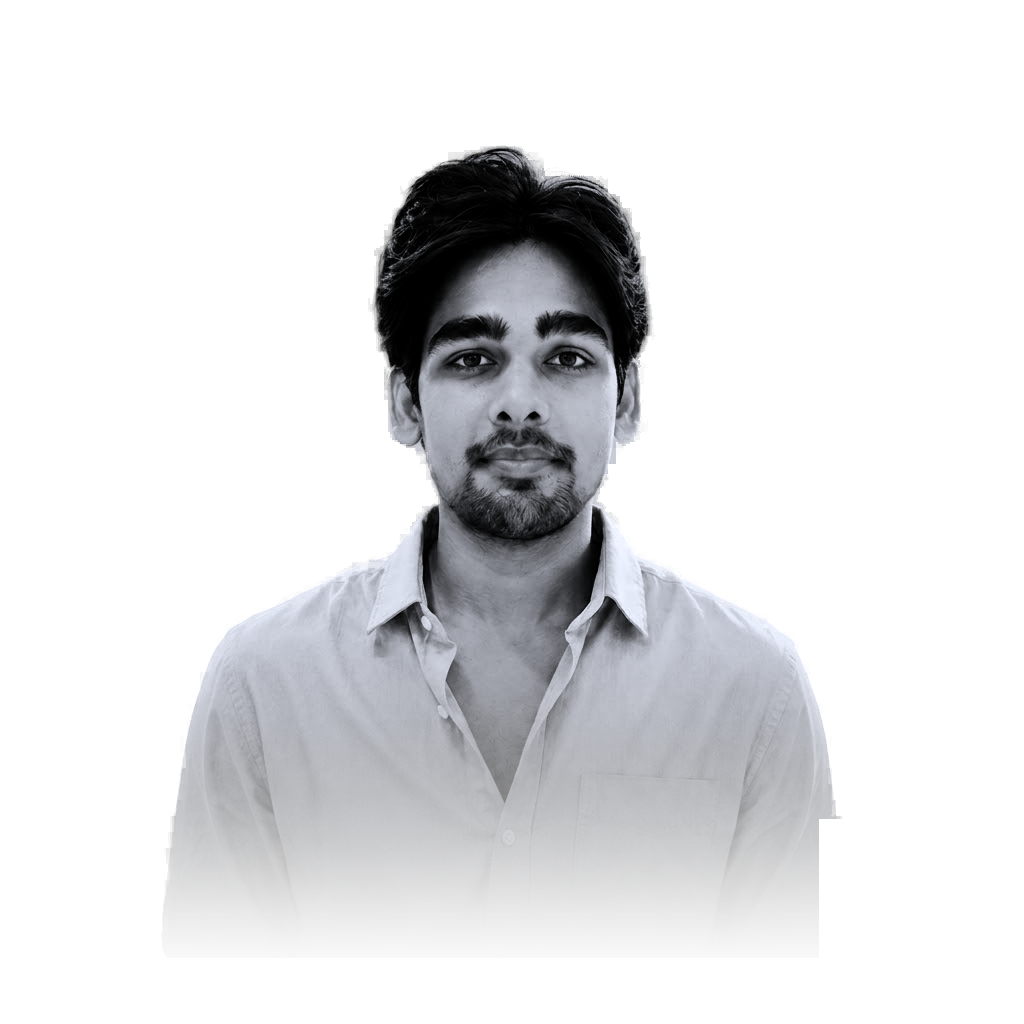
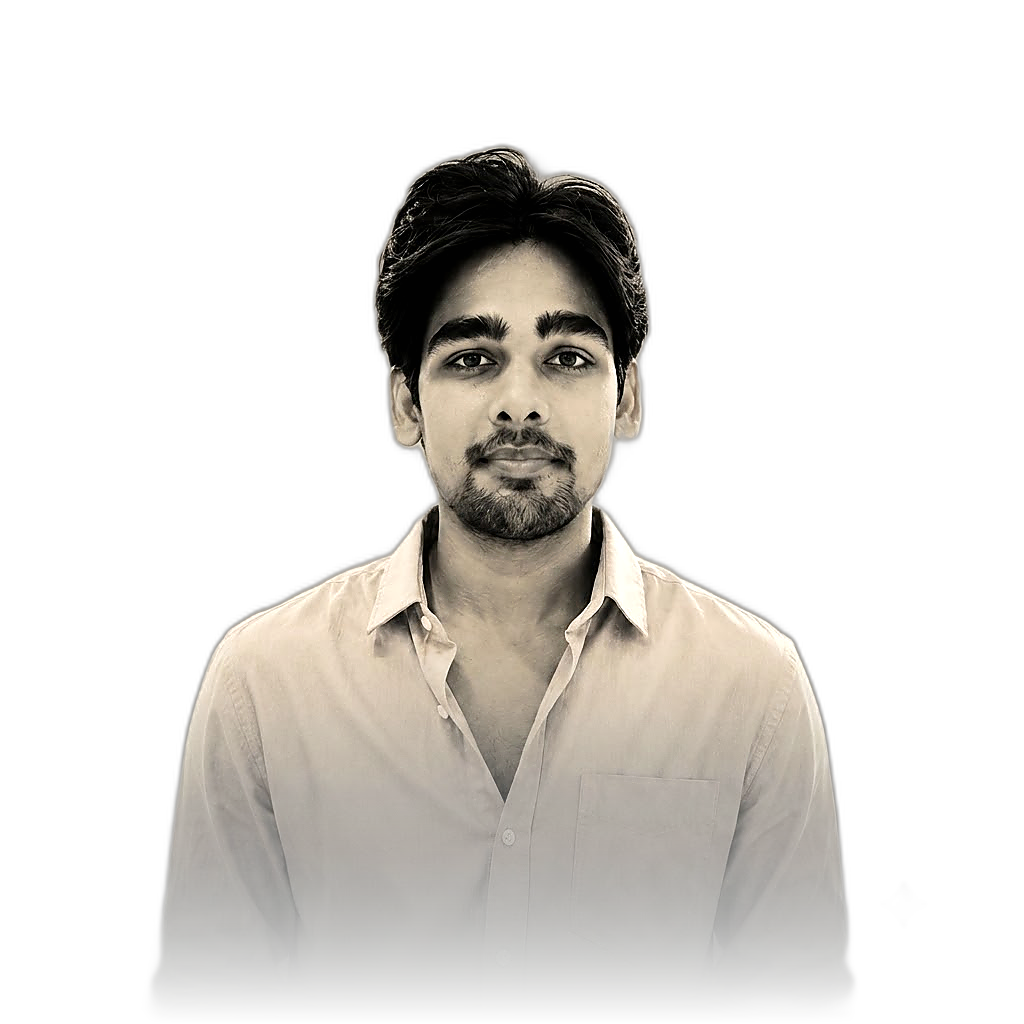
feat: implement premium hero section with global CSS styling and assets

diff --git a/src/components/sections/hero.tsx b/src/components/sections/hero.tsx
@@ -1,6 +1,7 @@
 'use client';
 
 import * as React from 'react';
+import Image from 'next/image';
 import { ArrowRight, FileText, Mail, ChevronDown } from 'lucide-react';
 import { motion } from 'framer-motion';
 import { siteConfig } from '@/config/site';
@@ -9,7 +10,7 @@ import { useReducedMotion } from '@/hooks/use-reduced-motion';
 
 /**
  * Premium Hero Section Component.
- * Implements desktop split-screen layout (text left, interactive SVG right).
+ * Implements desktop split-screen layout (text left, portrait photo right).
  * Built with strict design tokens, Framer Motion sequence animations,
  * and accessibility keyboard navigation aids.
  */
@@ -18,107 +19,6 @@ export function Hero() {
 
   // Sequence delays
   const delayStep = isReducedMotion ? 0 : 0.1;
-
-  // Render responsive interactive data nodes representing neural network configurations
-  const renderSVGNodes = () => {
-    return (
-      <svg
-        className="w-full h-full max-w-[480px] max-h-[480px] mx-auto text-border-custom"
-        viewBox="0 0 400 400"
-        fill="none"
-        xmlns="http://www.w3.org/2000/svg"
-        aria-hidden="true"
-      >
-        {/* Bounding target brackets */}
-        <path d="M 20 50 L 20 20 L 50 20" stroke="currentColor" strokeWidth="1.5" />
-        <path d="M 380 50 L 380 20 L 350 20" stroke="currentColor" strokeWidth="1.5" />
-        <path d="M 20 350 L 20 380 L 50 380" stroke="currentColor" strokeWidth="1.5" />
-        <path d="M 380 350 L 380 380 L 350 380" stroke="currentColor" strokeWidth="1.5" />
-
-        {/* Technical annotation text */}
-        <text
-          x="30"
-          y="35"
-          className="font-mono text-[9px] fill-text-secondary tracking-widest uppercase"
-        >
-          LOC: 21.235° N, 81.346° E
-        </text>
-        <text
-          x="30"
-          y="370"
-          className="font-mono text-[9px] fill-text-secondary tracking-widest uppercase"
-        >
-          SYS: V1.0_READY
-        </text>
-
-        {/* Grid dots background */}
-        <defs>
-          <pattern id="grid" width="20" height="20" patternUnits="userSpaceOnUse">
-            <circle cx="2" cy="2" r="1" className="fill-border-custom" />
-          </pattern>
-        </defs>
-        <rect width="400" height="400" fill="url(#grid)" />
-
-        {/* Network connections */}
-        <motion.path
-          d="M 100 200 L 200 100 M 100 200 L 200 200 M 100 200 L 200 300 M 200 100 L 300 200 M 200 200 L 300 200 M 200 300 L 300 200"
-          stroke="currentColor"
-          strokeWidth="1.2"
-          strokeDasharray="4 4"
-          initial={isReducedMotion ? { strokeDashoffset: 0 } : { strokeDashoffset: 24 }}
-          animate={isReducedMotion ? {} : { strokeDashoffset: 0 }}
-          transition={{ repeat: Infinity, ease: 'linear', duration: 4 }}
-        />
-
-        {/* Primary Data nodes */}
-        <motion.circle
-          cx="100"
-          cy="200"
-          r="6"
-          className="fill-background stroke-text-primary"
-          strokeWidth="1.5"
-          whileHover={isReducedMotion ? {} : { scale: 1.3, fill: 'var(--accent)' }}
-        />
-        <motion.circle
-          cx="200"
-          cy="100"
-          r="6"
-          className="fill-background stroke-text-primary"
-          strokeWidth="1.5"
-          whileHover={isReducedMotion ? {} : { scale: 1.3, fill: 'var(--accent)' }}
-        />
-        <motion.circle
-          cx="200"
-          cy="200"
-          r="6"
-          className="fill-background stroke-text-primary"
-          strokeWidth="1.5"
-          whileHover={isReducedMotion ? {} : { scale: 1.3, fill: 'var(--accent)' }}
-        />
-        <motion.circle
-          cx="200"
-          cy="300"
-          r="6"
-          className="fill-background stroke-text-primary"
-          strokeWidth="1.5"
-          whileHover={isReducedMotion ? {} : { scale: 1.3, fill: 'var(--accent)' }}
-        />
-        <motion.circle
-          cx="300"
-          cy="200"
-          r="6"
-          className="fill-background stroke-text-primary"
-          strokeWidth="1.5"
-          whileHover={isReducedMotion ? {} : { scale: 1.3, fill: 'var(--accent)' }}
-        />
-
-        {/* Floating coordinates overlay */}
-        <g className="fill-accent">
-          <circle cx="200" cy="200" r="2" />
-        </g>
-      </svg>
-    );
-  };
 
   return (
     <section
@@ -133,11 +33,16 @@ export function Hero() {
             initial={{ opacity: 0, y: 10 }}
             animate={{ opacity: 1, y: 0 }}
             transition={{ ...transitionEase, delay: 0 }}
-            className="flex items-center space-x-2"
+            className="flex items-center space-x-3"
           >
             <span className="w-2 h-2 rounded-full bg-success animate-pulse" />
             <span className="font-mono text-2xs uppercase tracking-wider text-text-secondary">
               {siteConfig.status.label}
+            </span>
+            <span className="hidden sm:block w-px h-3 bg-border-custom" aria-hidden="true" />
+            <span className="hidden sm:flex items-center gap-1 font-mono text-2xs uppercase tracking-wider text-text-secondary/60">
+              <svg width="8" height="8" viewBox="0 0 8 8" fill="none" aria-hidden="true"><circle cx="4" cy="4" r="3" stroke="currentColor" strokeWidth="1" /><circle cx="4" cy="4" r="1" fill="currentColor" /></svg>
+              21.235° N, 81.346° E
             </span>
           </motion.div>
 
@@ -209,14 +114,37 @@ export function Hero() {
           </motion.div>
         </div>
 
-        {/* Right Column: Premium SVG network graph */}
+        {/* Right Column: Portrait Photo */}
         <motion.div
-          initial={{ opacity: 0, scale: 0.95 }}
-          animate={{ opacity: 1, scale: 1 }}
+          initial={{ opacity: 0, scale: 0.96, y: 10 }}
+          animate={{ opacity: 1, scale: 1, y: 0 }}
           transition={{ ...transitionSpring, delay: delayStep * 4 }}
-          className="md:col-span-5 flex items-center justify-center w-full aspect-square border border-border-custom bg-surface/40 backdrop-blur-md rounded-md p-6 relative overflow-hidden"
+          className="md:col-span-5 flex items-end justify-center w-full relative"
+          style={{ minHeight: '420px' }}
         >
-          {renderSVGNodes()}
+          {/* Ambient glow backdrop — visible in dark mode only */}
+          <div
+            className="absolute inset-x-0 bottom-0 top-[15%] rounded-full opacity-0 dark:opacity-20 blur-3xl pointer-events-none transition-opacity"
+            style={{
+              background:
+                'radial-gradient(ellipse at 50% 80%, hsl(224, 90%, 56%) 0%, transparent 70%)',
+            }}
+            aria-hidden="true"
+          />
+
+
+
+          {/* Portrait image — transparent background, bottom fade baked in */}
+          <div className="relative w-full h-full flex items-end justify-center">
+            <Image
+              src="/images/avatar.png"
+              alt="Portrait of Ayush Patwa"
+              width={560}
+              height={610}
+              priority
+              className="object-contain object-bottom w-full max-w-[480px] select-none"
+            />
+          </div>
         </motion.div>
       </div>
 

diff --git a/src/styles/globals.css b/src/styles/globals.css
@@ -90,7 +90,7 @@ textarea {
     border-color 0.15s ease;
 }
 
-/* Accessibility - Reduced Motion rules overrides */
+/* Reduced Motion rules */
 @media (prefers-reduced-motion: reduce) {
   * {
     animation-delay: 0s !important;
@@ -100,3 +100,5 @@ textarea {
     scroll-behavior: auto !important;
   }
 }
+
+
